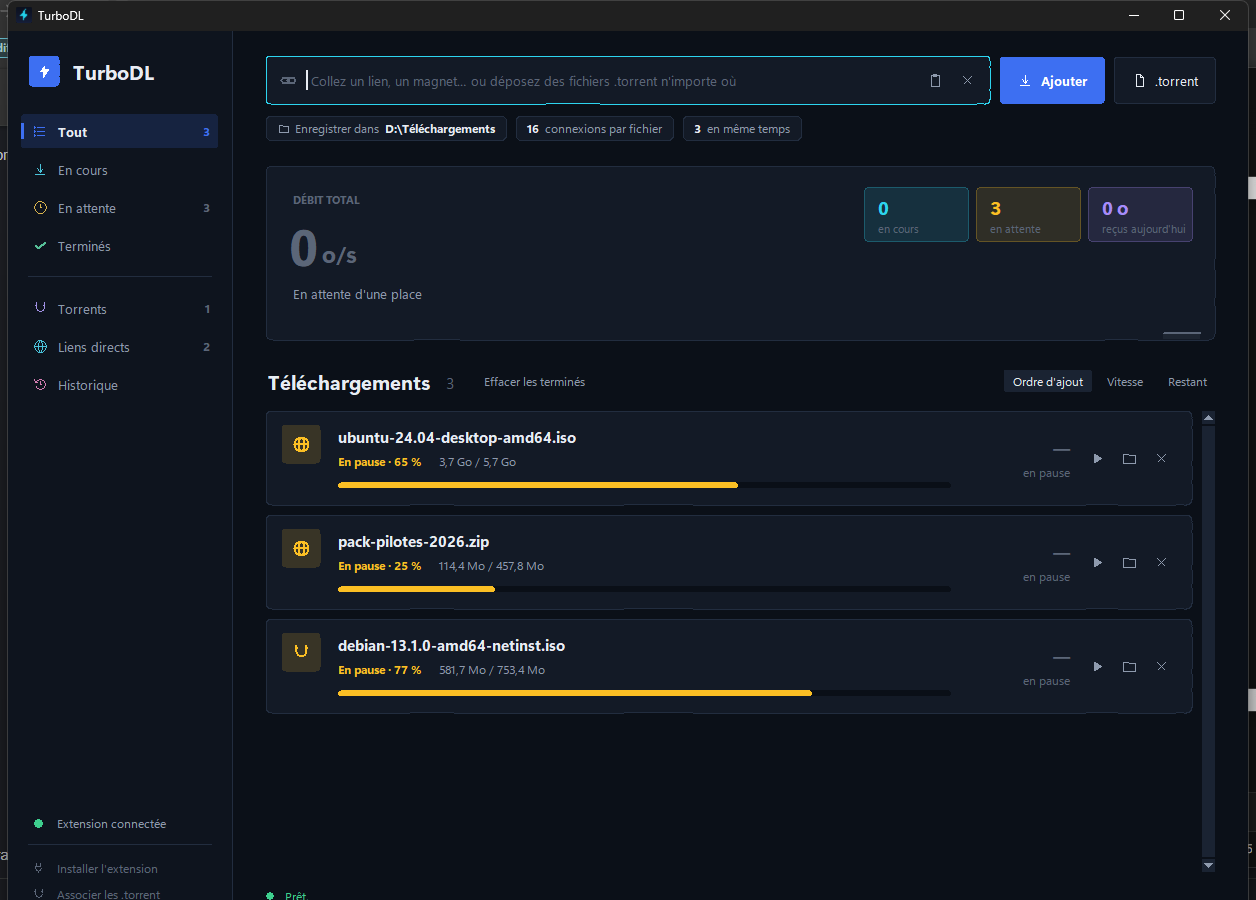
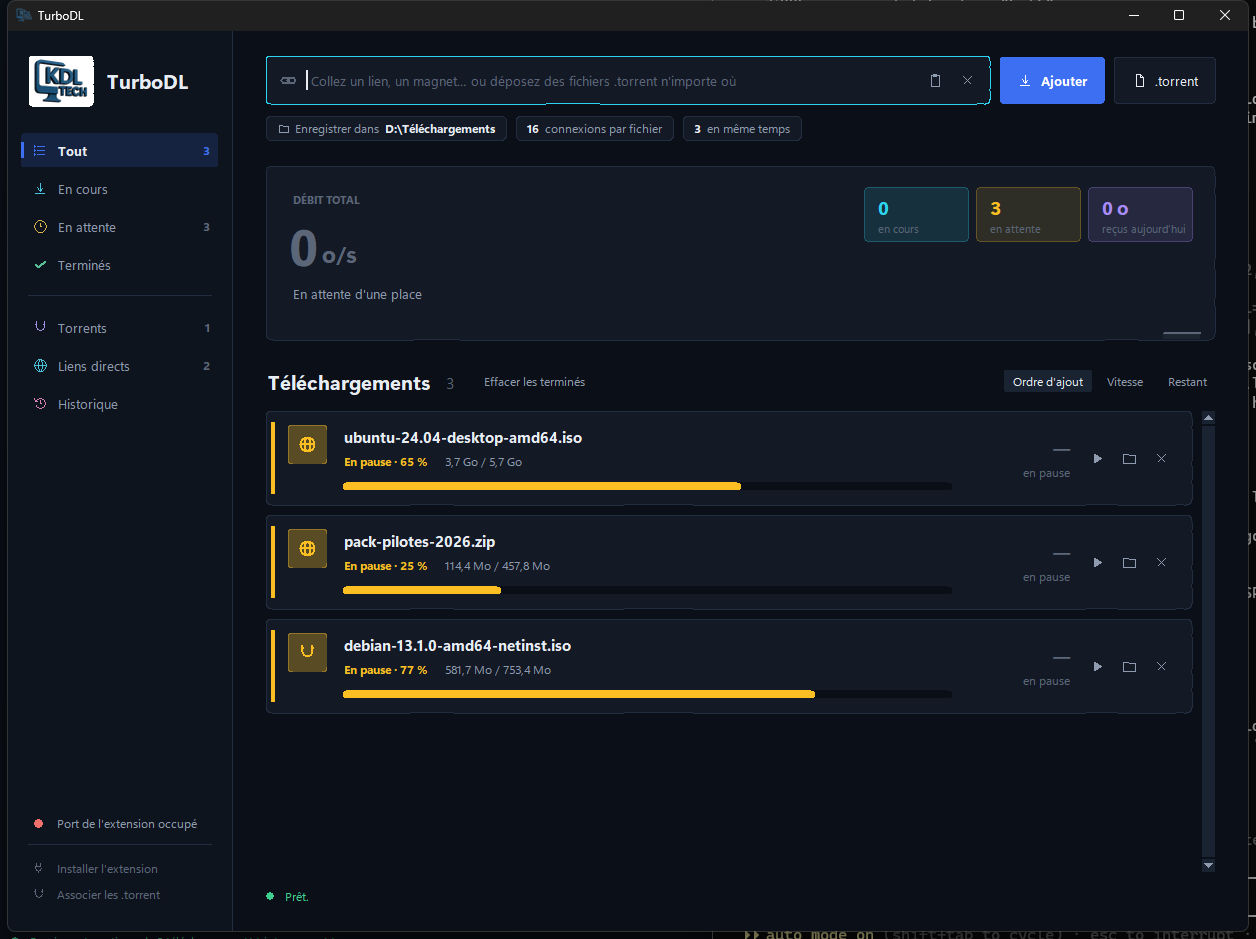
TurboDL 1.7.1
Reprise rapide des torrents (plus de revérification complète), logo KDL TECH
dans l'application, couleurs renforcées.

diff --git a/turbodl.py b/turbodl.py
@@ -32,7 +32,7 @@ import urllib.error
 import urllib.parse
 import urllib.request
 
-VERSION = "1.7.0"
+VERSION = "1.7.1"
 UA = f"Mozilla/5.0 (Windows NT 10.0; Win64; x64) TurboDL/{VERSION}"
 CHUNK = 256 * 1024             # taille de lecture réseau
 MIN_SPLIT = 2 * 1024 * 1024    # on ne recoupe pas un segment restant < 2 Mo
@@ -620,6 +620,27 @@ def lt_session():
         return _LT["session"]
 
 
+_RESUME = {}       # empreinte -> données de reprise reçues de libtorrent
+
+
+def _ih_key(ih):
+    return str(ih.get_best())
+
+
+def _pump_alerts(ses):
+    """La session est partagée : un seul lecteur d'alertes à la fois, et les
+    données de reprise sont rangées pour le téléchargement concerné."""
+    import libtorrent as lt
+    with _LT_LOCK:
+        for a in ses.pop_alerts():
+            if isinstance(a, lt.save_resume_data_alert):
+                _RESUME[_ih_key(a.handle.info_hashes())] = lt.write_resume_data_buf(a.params)
+
+
+def _resume_path(key):
+    return os.path.join(app_dir("reprise"), key + ".fastresume")
+
+
 class TorrentJob:
     """Téléchargement BitTorrent ; même interface que Downloader
     (run / stop / snapshot) pour que l'affichage soit commun."""
@@ -689,10 +710,23 @@ class TorrentJob:
         return self.status
 
     def _run(self):
+        import libtorrent as lt
         atp = self._params()
         out = os.path.abspath(self.out_dir)
         os.makedirs(out, exist_ok=True)
         atp.save_path = out
+        key = _ih_key(atp.info_hashes)
+        rpath = _resume_path(key)
+        try:                                     # reprise rapide : pas de revérification
+            with open(rpath, "rb") as fh:
+                saved = lt.read_resume_data(fh.read())
+            saved.save_path = out
+            if saved.ti is not None or atp.ti is None:
+                saved.trackers = list(saved.trackers) + [t for t in atp.trackers
+                                                         if t not in saved.trackers]
+                atp = saved
+        except (OSError, RuntimeError):
+            pass
         ses = lt_session()
         if not self.extra_peers:                 # trackers publics : plus de pairs
             atp.trackers = list(atp.trackers) + [t for t in EXTRA_TRACKERS
@@ -702,9 +736,31 @@ class TorrentJob:
             h.connect_peer(peer)
         space_checked = False
         full_since = None                # 100 % atteint mais libtorrent pas encore « fini »
+        last_resume = time.monotonic()
+
+        def write_resume(data):
+            with open(rpath + ".tmp", "wb") as fh:
+                fh.write(data)
+            os.replace(rpath + ".tmp", rpath)
+
+        def save_resume(wait):
+            st = h.status()
+            if not st.has_metadata or str(st.state).rsplit(".", 1)[-1].startswith("checking"):
+                return
+            h.save_resume_data(lt.torrent_handle.save_info_dict)
+            if not wait:
+                return
+            end = time.monotonic() + 10
+            while time.monotonic() < end:
+                _pump_alerts(ses)
+                data = _RESUME.pop(key, None)
+                if data:
+                    write_resume(data)
+                    return
+                time.sleep(0.1)
         try:
             while not self.stop_evt.is_set():
-                ses.pop_alerts()
+                _pump_alerts(ses)
                 st = h.status()
                 if st.errc.value():
                     raise IOError(st.errc.message())
@@ -730,10 +786,25 @@ class TorrentJob:
                         full_since and time.monotonic() - full_since > 10)):
                     self.final_path = os.path.join(out, st.name)
                     self.status = "done"     # pas de partage après la fin
+                    try:
+                        os.remove(rpath)
+                    except OSError:
+                        pass
                     return
+                if time.monotonic() - last_resume > 120:
+                    last_resume = time.monotonic()
+                    save_resume(False)       # sinon écrit au tour suivant, à réception
+                data = _RESUME.pop(key, None)
+                if data:
+                    write_resume(data)
                 self.stop_evt.wait(0.5)
-            self.status = "paused"           # relancer = revérifie puis reprend
+            self.status = "paused"           # relancer = reprise immédiate
         finally:
+            if self.status != "done":
+                try:
+                    save_resume(True)
+                except Exception:  # noqa: BLE001 — au pire, revérification au prochain lancement
+                    pass
             ses.remove_torrent(h)            # les fichiers restent sur le disque
 
     def snapshot(self):
@@ -1339,10 +1410,16 @@ def gui(initial=None):
     sbx.pack(fill="both", expand=True)
     brand = tk.Frame(sbx, bg=SIDE)
     brand.pack(fill="x", padx=8, pady=(0, 24))
-    logo = tk.Canvas(brand, width=32, height=32, bg=SIDE, highlightthickness=0)
-    logo.pack(side="left")
-    rounded(logo, 0.5, 0.5, 31.5, 31.5, 9, fill=PRIMARY, outline="")
-    draw_icon(logo, "bolt", 18, P["on_primary"], 7, 7)
+    try:                                        # logo officiel KDL TECH, tel quel
+        brand.logo_img = tk.PhotoImage(file=resource("logo-kdl.png"))
+        lw, lh = brand.logo_img.width(), brand.logo_img.height()
+        logo = tk.Canvas(brand, width=lw + 12, height=lh + 8, bg=SIDE, highlightthickness=0)
+        logo.pack(side="left")
+        if P["dark"]:                           # fond sombre : pastille claire, logo intact
+            rounded(logo, 0.5, 0.5, lw + 11.5, lh + 7.5, 9, fill="#ffffff", outline="")
+        logo.create_image(6, 4, image=brand.logo_img, anchor="nw")
+    except tk.TclError:
+        pass
     label(brand, "TurboDL", 15, FG, "bold", DISPLAY).pack(side="left", padx=(10, 0))
 
     navs = {}
@@ -1685,8 +1762,10 @@ def gui(initial=None):
                          "segments": [], "pieces": [], "status": state, "error": None,
                          "path": None, "filename": job.get("name")}
             self.box, card = rounded_box(inner, SURF, LINE, 12, 4)
+            self.stripe = tk.Frame(card, width=4, bg=ACC)
+            self.stripe.pack(side="left", fill="y", padx=(2, 0), pady=8)
             g = tk.Frame(card, bg=SURF, padx=12, pady=10)
-            g.pack(fill="x")
+            g.pack(side="left", fill="both", expand=True)
             g.columnconfigure(1, weight=1)
             g.columnconfigure(2, minsize=128)
             self.tile = tk.Canvas(g, width=40, height=40, bg=SURF, highlightthickness=0)
@@ -1802,6 +1881,16 @@ def gui(initial=None):
                     self.done_at = time.strftime("%H:%M")
                     notify(f"Terminé : {short(self.name(), 90)}", OK)
 
+        def checking(self):
+            return (self.state == "running" and self.torrent
+                    and "vérification" in (self.snap.get("phase") or ""))
+
+        def accent(self):
+            if self.checking():
+                return AMBER
+            return {"done": OK, "error": ERR, "paused": AMBER, "waiting": AMBER}.get(
+                self.state, VIOLET if self.torrent else ACC)
+
         def render(self):
             s, state = self.snap, self.state
             self.name_lbl.config(text=short(self.name(), 90))
@@ -1811,6 +1900,9 @@ def gui(initial=None):
             txt, col = STATE_TXT.get(state, (state, MUTED))
             if state == "running" and self.stopping:
                 txt = "Mise en pause…"
+            elif self.checking():
+                txt, col = "Vérification", AMBER
+            self.stripe.config(bg=self.accent())
             self.st_lbl.config(text=f"{txt} · {pct}" if pct and state in ("running", "paused")
                                else txt, fg=col)
             parts = []
@@ -1833,8 +1925,13 @@ def gui(initial=None):
             self.meta_lbl.config(text="   ".join(p for p in parts if p),
                                  fg=ERR if state == "error" else MUTED)
             if state == "running":
-                self.speed_lbl.config(text=f"{human(s['speed'])}/s", fg=FG)
-                self.left_lbl.config(text=f"reste {human_time(s.get('eta'))}")
+                if self.checking():
+                    self.speed_lbl.config(text="contrôle", fg=AMBER)
+                    self.left_lbl.config(text="des fichiers déjà là")
+                else:
+                    self.speed_lbl.config(text=f"{human(s['speed'])}/s",
+                                          fg=VIOLET if self.torrent else ACC)
+                    self.left_lbl.config(text=f"reste {human_time(s.get('eta'))}")
             else:
                 self.speed_lbl.config(text="—", fg=FAINT)
                 self.left_lbl.config(text={"paused": "en pause", "waiting": "en attente",
@@ -1852,57 +1949,62 @@ def gui(initial=None):
         def paint_tile(self):
             c = self.tile
             c.delete("all")
-            col = {"done": OK, "error": ERR, "paused": AMBER, "waiting": AMBER}.get(
-                self.state, VIOLET if self.torrent else ACC)
-            rounded(c, 0.5, 0.5, 39.5, 39.5, 10, fill=blend(col, SURF, 0.16), outline="")
+            col = self.accent()
+            rounded(c, 0.5, 0.5, 39.5, 39.5, 10, fill=blend(col, SURF, 0.30),
+                    outline=blend(col, SURF, 0.55))
             kind = "check" if self.state == "done" else ("magnet" if self.torrent else "globe")
             draw_icon(c, kind, 20, col, 10, 10)
 
         def draw(self):
             c, s = self.bar, self.snap
             c.delete("all")
-            w, h = max(c.winfo_width(), 20), 14
+            w, h = max(c.winfo_width(), 20), 16
             y, x0, x1 = h / 2, 5, w - 5
             span = x1 - x0
             size = s.get("size")
-            c.create_line(x0, y, x1, y, width=6, fill=P["track"], capstyle="round")
+            c.create_line(x0, y, x1, y, width=8, fill=P["track"], capstyle="round")
             running = self.state == "running"
             col = {"done": OK, "error": ERR, "paused": AMBER}.get(self.state, ACC if running else FAINT)
-            g = (lambda x: grad((x - x0) / span)) if running else (lambda x: col)
+            if self.checking():
+                g = lambda x: blend(ACC, AMBER, (x - x0) / span)      # noqa: E731
+            elif running:
+                g = lambda x: grad((x - x0) / span)                   # noqa: E731
+            else:
+                g = lambda x: col                                     # noqa: E731
             if self.state == "done":
-                c.create_line(x0, y, x1, y, width=6, fill=OK, capstyle="round")
+                c.create_line(x0, y, x1, y, width=8, fill=OK, capstyle="round")
             elif s.get("pieces"):
                 pieces = s["pieces"]
                 bw = span / len(pieces)
                 for i, f in enumerate(pieces):
                     if f > 0:
                         pc = g(x0 + i * bw)
-                        c.create_line(x0 + i * bw, y, x0 + (i + 1) * bw + 0.6, y, width=6,
-                                      fill=pc if f >= 1 else blend(pc, P["track"], 0.45))
+                        c.create_line(x0 + i * bw, y, x0 + (i + 1) * bw + 0.6, y, width=8,
+                                      fill=pc if f >= 1 else blend(pc, P["track"], 0.7))
             elif size and s.get("segments"):
                 for start, end, pos, active in s["segments"]:
                     a, b = x0 + start / size * span, x0 + pos / size * span
                     xs = a
                     while xs < b:                     # par tranches pour le dégradé
                         xe = min(b, xs + 8)
-                        c.create_line(xs, y, xe + 0.5, y, width=6, fill=g(xs))
+                        c.create_line(xs, y, xe + 0.5, y, width=8, fill=g(xs))
                         xs = xe
                     if active and running:
                         glow(c, b, y, g(b), SURF, 2.5)
             elif size:
                 b = x0 + min(1.0, (s.get("downloaded") or 0) / size) * span
                 if b > x0:
-                    c.create_line(x0, y, b, y, width=6, fill=g(x0), capstyle="round")
+                    c.create_line(x0, y, b, y, width=8, fill=g(x0), capstyle="round")
                     xs = x0 + 3
                     while xs < b - 3:
                         xe = min(b - 3, xs + 8)
-                        c.create_line(xs, y, xe + 0.5, y, width=6, fill=g(xs))
+                        c.create_line(xs, y, xe + 0.5, y, width=8, fill=g(xs))
                         xs = xe
                     if running:
                         glow(c, b, y, g(b), SURF)
             elif running:
                 a = (time.time() * 140) % (span + 140) - 140
-                c.create_line(max(x0, x0 + a), y, min(x1, x0 + a + 140), y, width=6, fill=ACC,
+                c.create_line(max(x0, x0 + a), y, min(x1, x0 + a + 140), y, width=8, fill=ACC,
                               capstyle="round")
 
     # ----------------------------------------------------------- filtres, tri, liste

diff --git a/README.md b/README.md
@@ -19,6 +19,10 @@
 - **Extension navigateur** (Chrome/Edge) pour envoyer un lien à TurboDL d'un clic.
 - Thèmes clair et sombre (suit Windows), mise en veille bloquée pendant les téléchargements.
 
+### Nouveautés 1.7.1
+- Reprise rapide des torrents : plus de revérification complète à chaque lancement.
+- Logo KDL TECH dans l'application, couleurs renforcées, état « Vérification » clair.
+
 ### Nouveautés 1.7.0
 - Un torrent bloqué à 100 % se termine désormais tout seul.
 - Un élément retiré de la liste ne revient plus à chaque lancement (il reste dans l'historique).
@@ -50,6 +54,10 @@ python -m PyInstaller --noconfirm --onefile --windowed --name TurboDL --icon tur
 - **History** (`%LOCALAPPDATA%\TurboDL\historique.json`): unfinished downloads resume on restart.
 - **Browser extension** (Chrome/Edge) to send a link to TurboDL in one click.
 - Light and dark themes (follows Windows); sleep is blocked while downloading.
+
+### What's new in 1.7.1
+- Torrent fast resume: no full re-check on every launch.
+- KDL TECH logo in the app, stronger colours, clear "checking" state.
 
 ### What's new in 1.7.0
 - Torrents stuck at 100 % now complete on their own.
